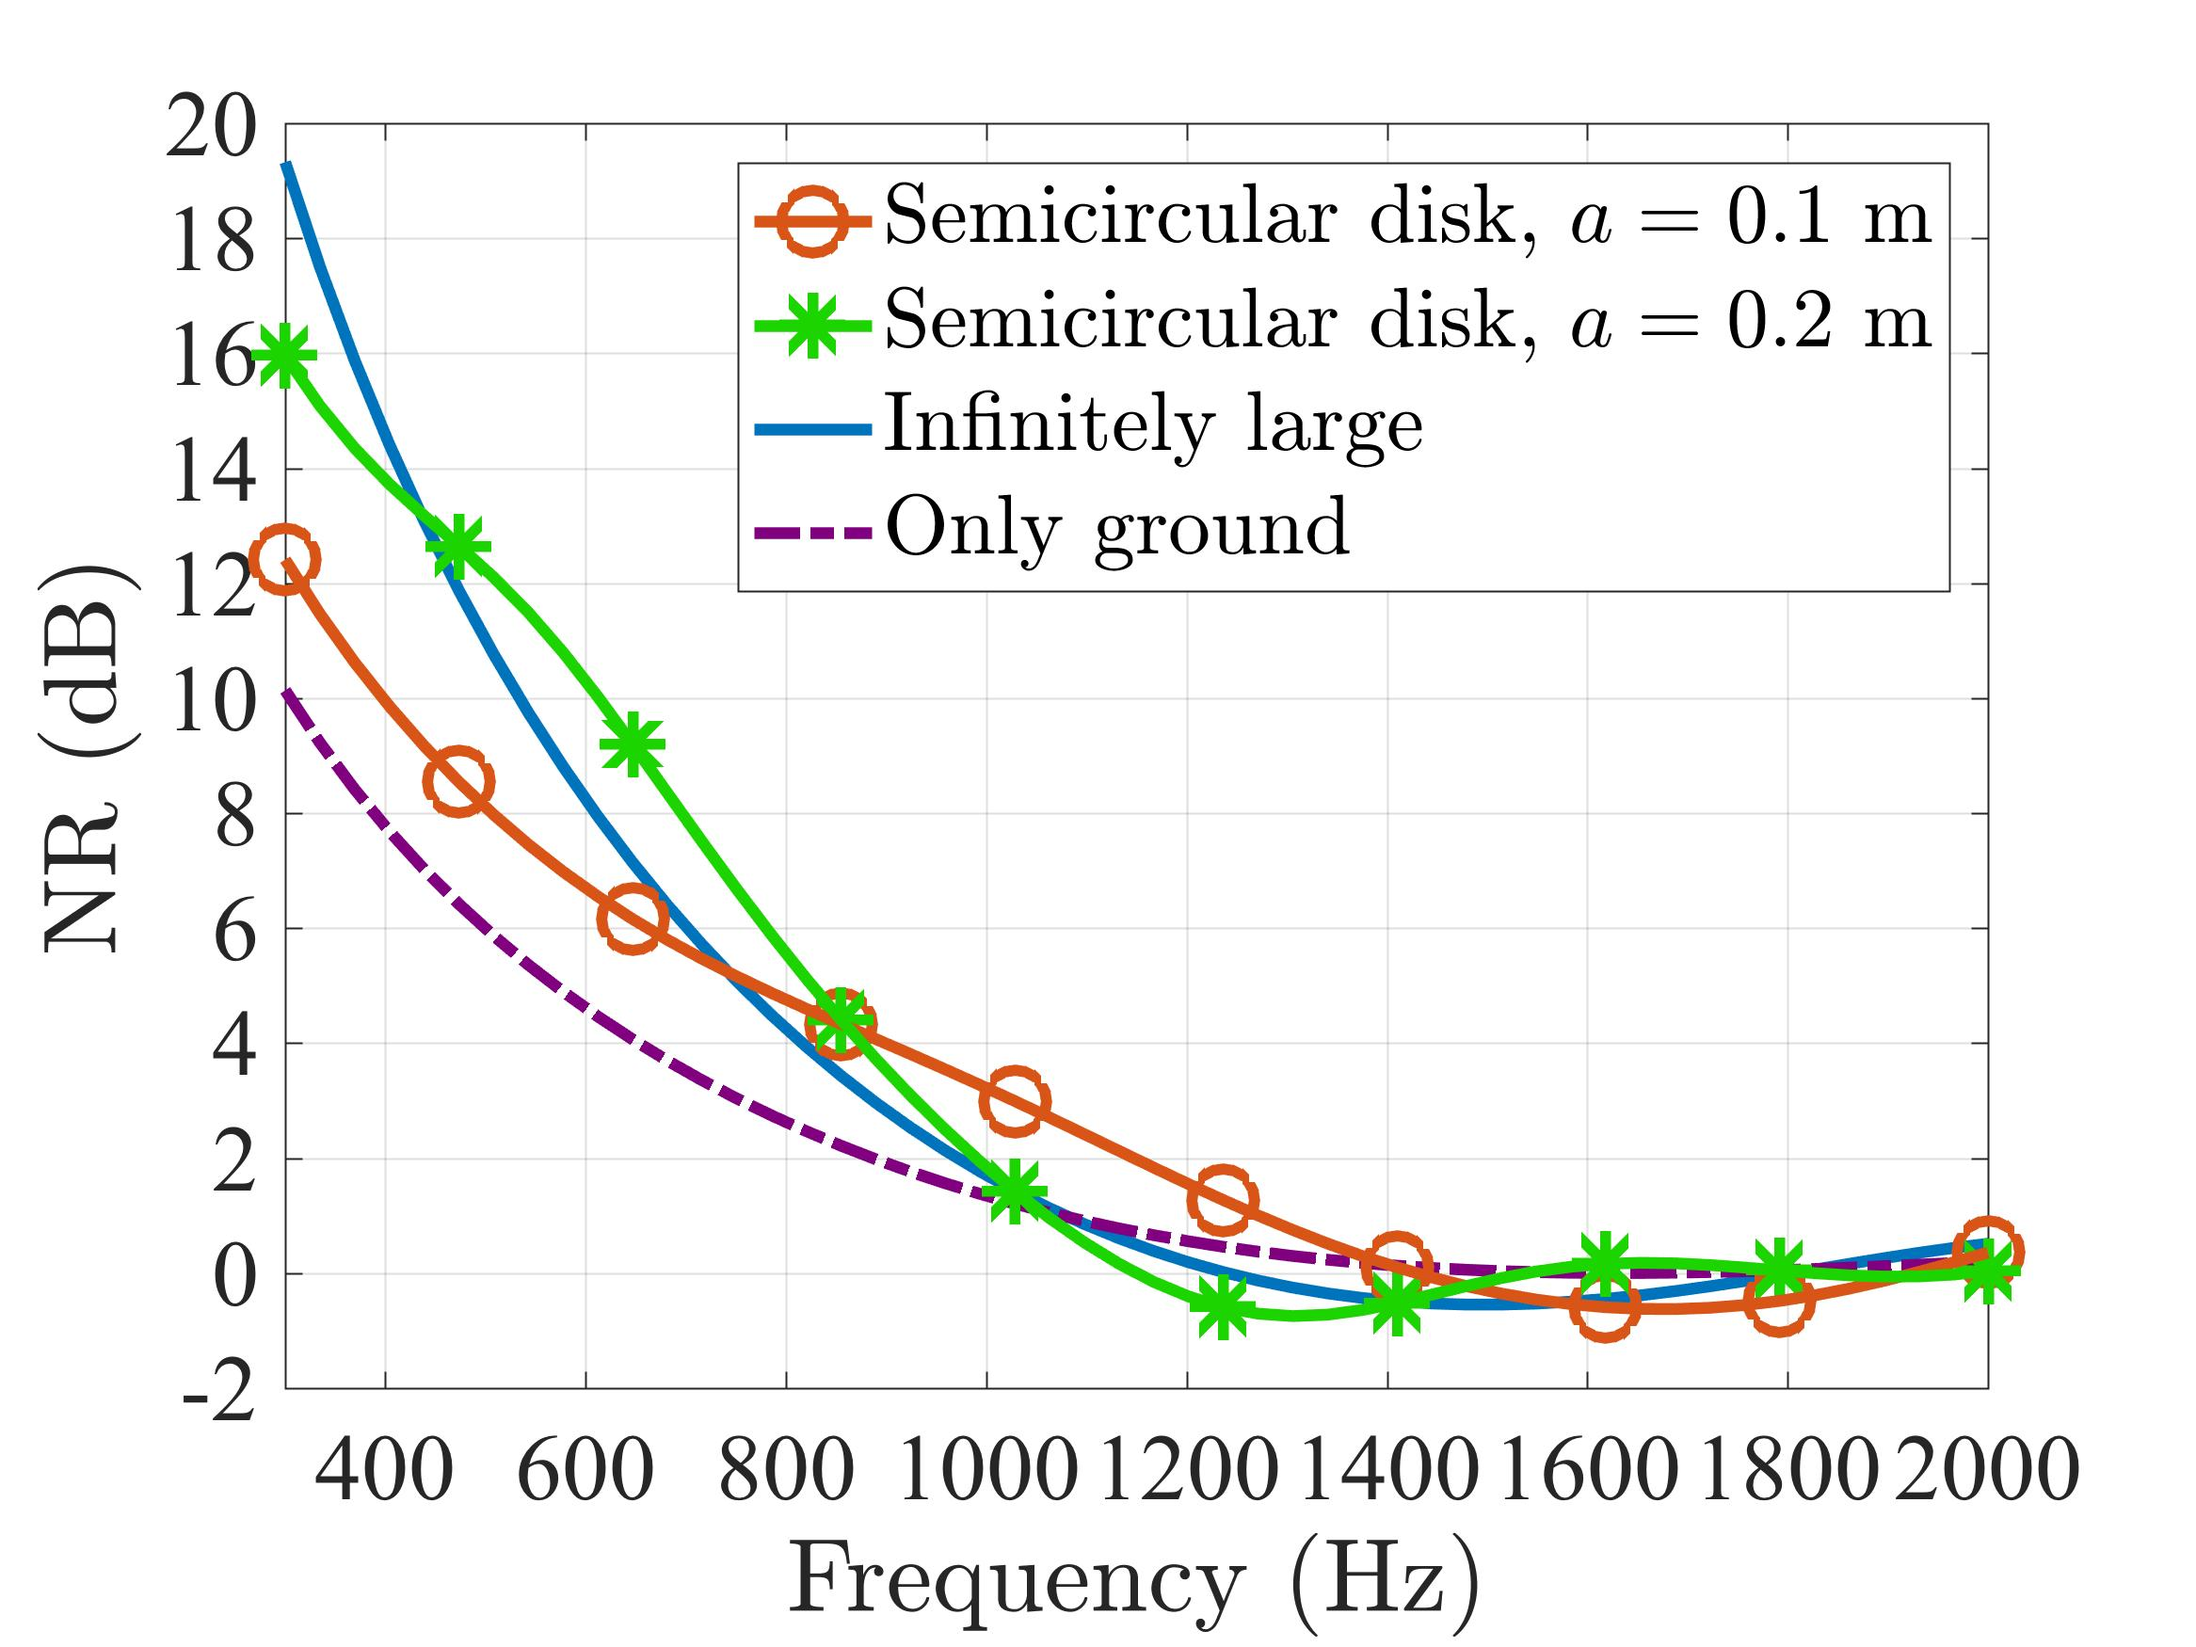
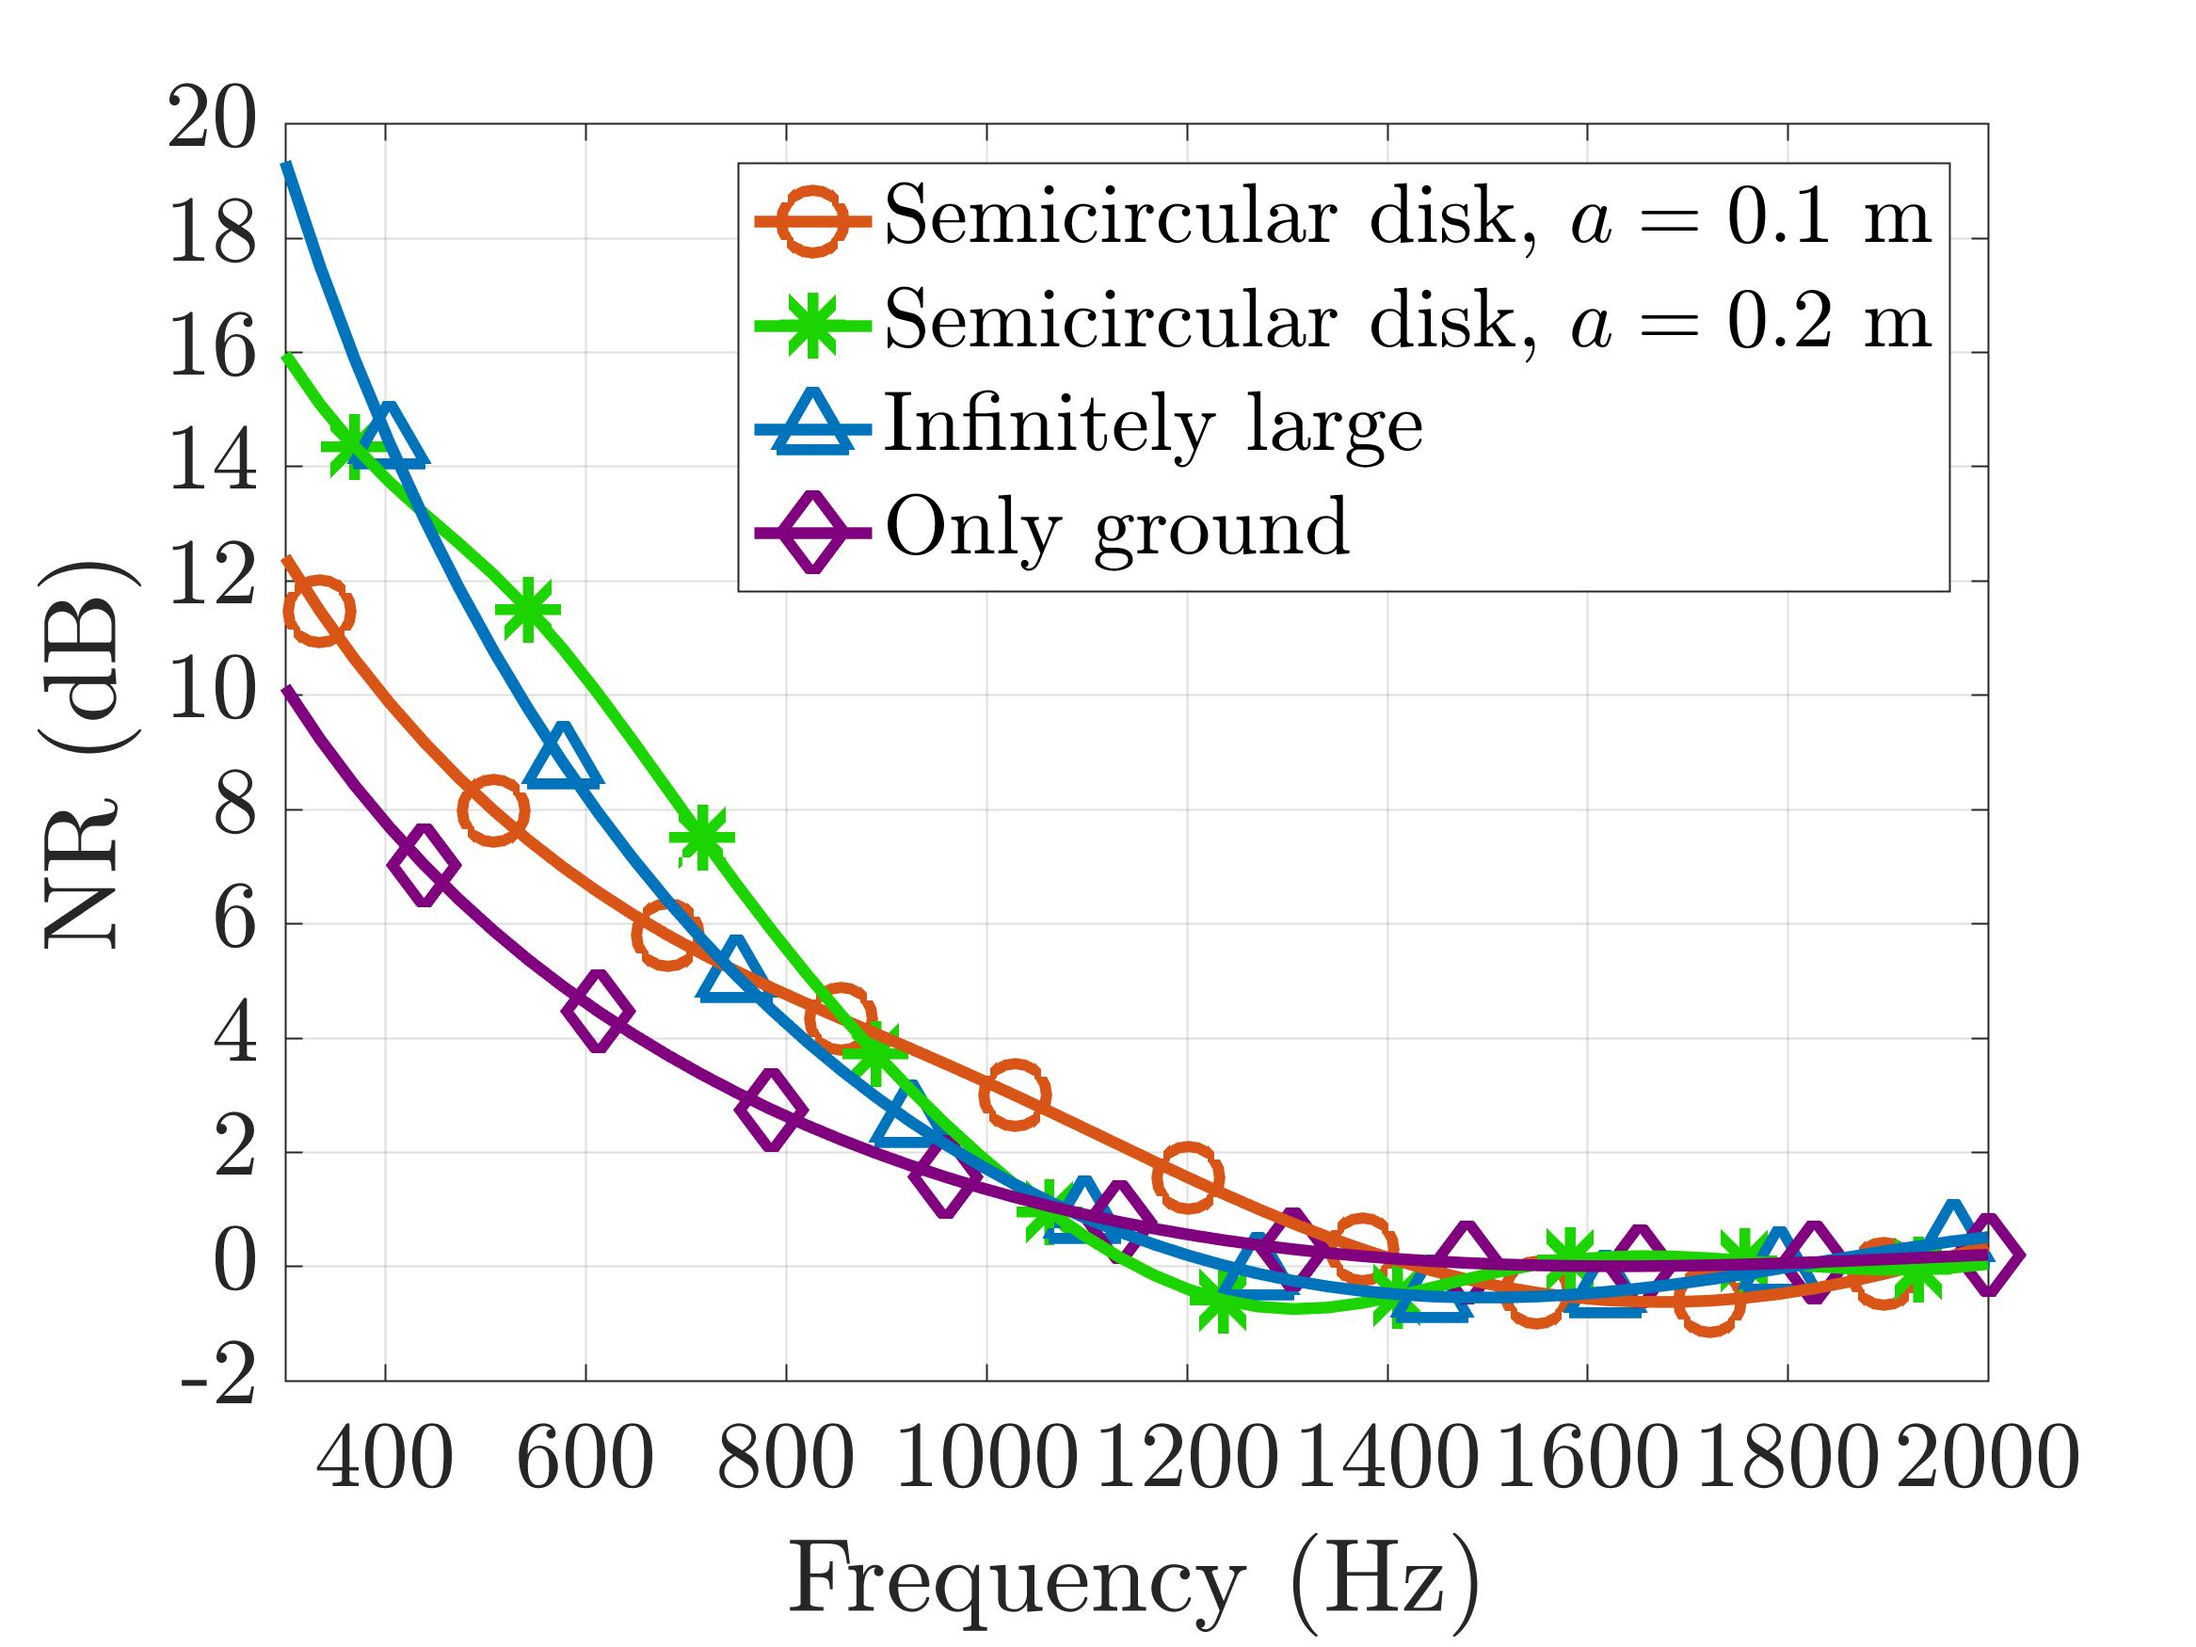
change the line styles of the figure

diff --git a/exp/fig/exp_cmpall.m b/exp/fig/exp_cmpall.m
@@ -1,0 +1,59 @@
+%% import data
+load exp/data/exp_cmpall.mat
+
+
+%% plot the figure
+% set the marker
+num_crv = 4;
+num_mkr = 10;
+
+f = cell(num_crv,1);
+NR = cell(num_crv,1);
+f{1} = f_a0p1;
+f{2} = f_a0p2;
+f{3} = f_inf;
+f{4} = f_grd;
+NR{1} = NR_a0p1;
+NR{2} = NR_a0p2;
+NR{3} = NR_inf;
+NR{4} = NR_grd;
+stp_mkr = zeros(num_crv,1);
+stt_mkr = zeros(num_crv,1);
+idx_mkr = cell(num_crv,1);
+for i = 1:num_crv
+   stp_mkr(i) = ceil(length(f{i}) / num_mkr);
+   stt_mkr(i) = ceil(stp_mkr(i) * i / num_crv);
+   idx_mkr{i} = stt_mkr(i) : stp_mkr(i) : length(f{i});
+end
+
+figure
+plot(f{1}(stt_mkr(1)), NR{1}(stt_mkr(1)), '-o', 'color', ca1);
+hold on
+plot(f{2}(stt_mkr(2)), NR{2}(stt_mkr(2)), '-*', 'color', ca2);
+plot(f{3}(stt_mkr(3)), NR{3}(stt_mkr(3)), '-^', 'color', ca3);
+plot(f{4}(stt_mkr(4)), NR{4}(stt_mkr(4)), '-d', 'color', ca4);
+
+plot(f{1}(idx_mkr{1}), NR{1}(idx_mkr{1}), 'o', 'color', ca1);
+plot(f{2}(idx_mkr{2}), NR{2}(idx_mkr{2}), '*', 'color', ca2);
+plot(f{3}(idx_mkr{3}), NR{3}(idx_mkr{3}), '^', 'color', ca3);
+plot(f{4}(idx_mkr{4}), NR{4}(idx_mkr{4}), 'd', 'color', ca4);
+
+plot(f{1}, NR{1}, '-', 'color', ca1);
+plot(f{2}, NR{2}, '-', 'color', ca2);
+plot(f{3}, NR{3}, '-', 'color', ca3);
+plot(f{4}, NR{4}, '-', 'color', ca4);
+
+
+xlabel('Frequency (Hz)')
+ylabel('NR (dB)')
+legend({'Semicircular disk, $$a=0.1$$ m',...
+    'Semicircular disk, $$a=0.2$$ m',...
+    'Infinitely large', 'Only ground'},...
+    'location', 'northeast')
+f_tick = 400:200:2000;
+set(gca,'xtick',f_tick);
+xlim([300,2000])
+ylim([-2,20])
+set(gca,'ytick',-2:2:20);
+print(sprintf('%s_cache.jpg',mfilename('fullpath')), '-djpeg',...
+    '-r300');
